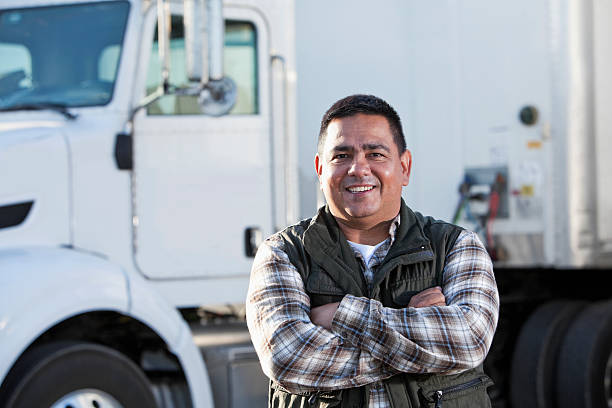
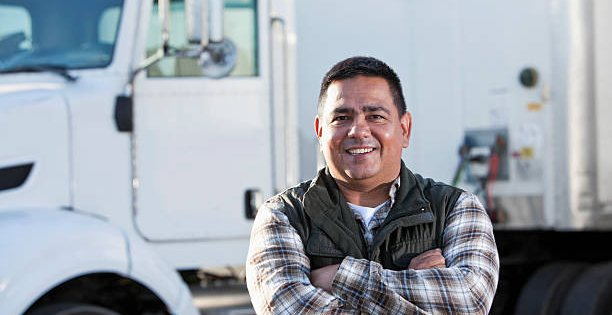
checking

diff --git a/index.html b/index.html
@@ -13,49 +13,51 @@
     integrity="sha384-DNOHZ68U8hZfKXOrtjWvjxusGo9WQnrNx2sqG0tfsghAvtVlRW3tvkXWZh58N9jp" crossorigin="anonymous">
 
 </head>
-<body>    
-    <header class="header sticky-top" id="main-header">
-        <nav class="navbar navbar-expand-lg navbar-light">
-            <figure>
-                <img src="Images/logoJpg.jpg" class="logo" alt="logo" style="max-width: 30%;height: auto;">
-            </figure>
-            <button class="navbar-toggler" type="button" data-toggle="collapse" data-target="#navbarNav" aria-controls="navbarNav" aria-expanded="false" aria-label="Toggle navigation">
-                <span class="navbar-toggler-icon"></span>
-            </button>
-            <div class="collapse navbar-collapse" id="navbarNav">
-                <ul class="navbar-nav">  
-                <li class="nav-item">
-                <a class="nav-link active" href="index.html">Home</a>
-                </li>             
-                <li class="nav-item">
-                    <a class="nav-link" href="AboutUs.html">About</a>
-                </li>
-                <!-- <li class="nav-item">
-                    <a class="nav-link" href="#">Gallery</a>
-                </li>
-                <li class="nav-item">
-                    <a class="nav-link" href="#">Partners</a>
-                    </li> -->
-                <li class="nav-item">
-                    <a class="nav-link" href="ContactUs.html">Contact</a>
-                </li>                   
-                </ul>
-            </div>
-        </nav> <!--/Navigation-->
-    </header>
+    <body>    
+        <header class="header sticky-top" id="main-header">
+            <nav class="navbar navbar-expand-lg navbar-light">
+                <figure>
+                    <a href="index.html"><img src="Images/logoJpg.jpg" class="logo" alt="logo" style="max-width: 30%;height: auto;"></a>
+                </figure>
+                <button class="navbar-toggler" type="button" data-toggle="collapse" data-target="#navbarNav" aria-controls="navbarNav" aria-expanded="false" aria-label="Toggle navigation">
+                    <span class="navbar-toggler-icon"></span>
+                </button>
+                <div class="collapse navbar-collapse" id="navbarNav">
+                    <ul class="navbar-nav">  
+                    <li class="nav-item">
+                    <a class="nav-link active" href="index.html">Home</a>
+                    </li>             
+                    <li class="nav-item">
+                        <a class="nav-link" href="AboutUs.html">About</a>
+                    </li>
+                    <!-- <li class="nav-item">
+                        <a class="nav-link" href="#">Gallery</a>
+                    </li>
+                    <li class="nav-item">
+                        <a class="nav-link" href="#">Partners</a>
+                        </li> -->
+                    <li class="nav-item">
+                        <a class="nav-link" href="ContactUs.html">Contact</a>
+                    </li>                   
+                    </ul>
+                </div>
+            </nav> <!--/Navigation-->
+        </header>
     <!--Bootsrap-->
         <div class="container-fluid">
             <div class="row">
                 <div class="col-sm">
                     <h3 class="mb-4">Owner Operators</h3>
-                    <a href=""><img class="mb-4 img-fluid rounded" src="Images/apply.jpg" alt="owner_operator"></a>
+                    <a href=""><img class="mb-4 img-fluid rounded" src="Images/Truck-driver-standing-in-front-of-big-rigs1.jpg" alt="owner_operator"></a>
                     <p>Lorem Ipsum is simply dummy text of the printing and typesetting industry. 
-                    Lorem Ipsum has been the industry's standard dummy text ever since the 1500s,</p>
+                    Lorem Ipsum has been the industry's standard dummy text ever since the 1500s,Lorem Ipsum is simply dummy text of the printing and typesetting industry. 
+                    Lorem Ipsum has been the industry's standard dummy  Ipsum is simply dummy text of the printing and. 
+                    </p>
                     <button type="button" class="my-button"><a href="#">Learn More</a></button>
                 </div>
                 <div class="col-sm">
                     <h3 class="mb-4">Drivers</h3>
-                    <a href=""><img class="mb-4 img-fluid rounded" src="Images/apply.jpg" alt="truck_driver"></a>
+                    <a href=""><img class="mb-4 img-fluid rounded" src="Images/truck_driver.jpg" alt="truck_driver"></a>
                     <p>Lorem Ipsum is simply dummy text of the printing and typesetting industry. 
                     Lorem Ipsum has been the industry's standard dummy text ever since the 1500s,</p>
                     <button type="button" class="my-button"><a href="#">Learn More</a></button>
@@ -74,13 +76,12 @@
             <!-- Modal -->
             <div class="modal fade" id="exampleModal" tabindex="-1" role="dialog" aria-labelledby="exampleModalLabel" aria-hidden="true">
                 <div class="modal-dialog" role="document">
-                <div class="modal-content">
-                    <div class="modal-header">
-                    <h5 class="modal-title" id="exampleModalLabel">Apply Form</h5>
-                    <button type="button" class="close" data-dismiss="modal" aria-label="Close">
-                        <span aria-hidden="true">&times;</span>
-                    </button>
-                    </div>
+                    <div class="modal-content">
+                        <div class="modal-header">
+                            <h5 class="modal-title" id="exampleModalLabel">Apply Form</h5>
+                            <button type="button" class="close" data-dismiss="modal" aria-label="Close">
+                            <span aria-hidden="true">&times;</span></button>
+                        </div>
                     <!--Apply Form-->
                     <div class="modal-body">                     
                             <div class="form-group">
@@ -107,12 +108,12 @@
                     <div class="modal-footer">
                     <button type="button" id="submit" class="btn btn-primary" data-dismiss="modal">SUBMIT</button>
                     </div>
+                <!-- </div>
                 </div>
+            </div> -->
+                    </div>
                 </div>
             </div>
-            </div>
-        </div>
-        </div>
     <footer>     
         <div class="follow_us">
             <a href="#"><i class="fab fa-instagram"></i></a>
@@ -125,7 +126,6 @@
         </div>       
     </footer> 
     <!--Bootstrap-->
-    
     <script src="JavaScript/jquery-3.3.1"></script>
     <script src="https://code.jquery.com/jquery-3.2.1.slim.min.js" integrity="sha384-KJ3o2DKtIkvYIK3UENzmM7KCkRr/rE9/Qpg6aAZGJwFDMVNA/GpGFF93hXpG5KkN" crossorigin="anonymous"></script>
     <script src="https://cdnjs.cloudflare.com/ajax/libs/popper.js/1.11.0/umd/popper.min.js" integrity="sha384-b/U6ypiBEHpOf/4+1nzFpr53nxSS+GLCkfwBdFNTxtclqqenISfwAzpKaMNFNmj4" crossorigin="anonymous"></script>

diff --git a/ContactUs.html b/ContactUs.html
@@ -17,7 +17,7 @@
         <header class="header" id="main-header">
             <nav class="navbar navbar-expand-lg navbar-light">
                 <figure>
-                    <img src="Images/logoJpg.jpg" class="logo" alt="logo" style="max-width: 30%;height: auto;">
+                    <a href="index.html"><img src="Images/logoJpg.jpg" class="logo" alt="logo" style="max-width: 30%;height: auto;"></a>
                 </figure>
                 <button class="navbar-toggler" type="button" data-toggle="collapse" data-target="#navbarNav" aria-controls="navbarNav" aria-expanded="false" aria-label="Toggle navigation">
                     <span class="navbar-toggler-icon"></span>
@@ -44,23 +44,18 @@
             </nav> <!--/Navigation-->
         </header>
         <div class="col-md-4 col-lg-3 col-xl-3 mx-auto mb-md-0 mb-4">
-
           <!-- Links -->
           <h6 class="text-uppercase font-weight-bold">Contact</h6>
           <hr class="deep-purple accent-2 mb-4 mt-0 d-inline-block mx-auto" style="width: 60px;">
           <p>
-            <i class="fa fa-home mr-3"></i> New York, NY 10012, US</p>
+            <i class="fa fa-home mr-3"></i> Louisville, KY</p>
           <p>
-            <i class="fa fa-envelope mr-3"></i> info@example.com</p>
+            <i class="fa fa-envelope mr-3"></i> fida@fida.com</p>
           <p>
-            <i class="fa fa-phone mr-3"></i> + 01 234 567 88</p>
+            <i class="fa fa-phone mr-3"></i> + 01 502 123 4567</p>
           <p>
-            <i class="fa fa-print mr-3"></i> + 01 234 567 89</p>
-
+            <i class="fa fa-print mr-3"></i> + 01 502 123 4567</p>
         </div>
-
-
-
         <div class="container-contact">
             <form id="contact-form" action="action_page.php">
               <div class="row-contact">

diff --git a/CSS/style.css b/CSS/style.css
@@ -53,10 +53,9 @@ a:hover {
   color: grey;
 }
 
-.active, nav a:hover {  
-  color: #dea227;
+.active, .nav-link a:hover {
   background-color: #f1f1f1;
-  border-radius: 10px;
+  border-radius: 30px;
   padding: 5px;
 }
 
@@ -69,7 +68,7 @@ a:hover {
 }
 
 .container-pt-4 {
-  background-color: #f2f2f2;
+  background-color: #f2f2f2; 
 }
 
 /* Styling a footer */
@@ -197,15 +196,15 @@ label {
 }
    /* Styling About Us page */
 
-   .about-div {     
-     background-color: #f2f2f2;
-   }
+.about-div {     
+  background-color: #f2f2f2;
+}
 
-   .about-picture {
-     float: left;
-     padding: 10px;
-     border-radius: 10px;
-   }
+.about-picture {
+  float: left;
+  padding: 10px;
+  border-radius: 10px;
+}
 
 .address-column {
   float: right;
@@ -223,13 +222,6 @@ h2 {
   text-align: justify;
 }
 
-
-/* .chief-column {
-  float: left;
-  width: 50%;
-  margin-bottom: 16px;
-  padding: 0 8px;
-} */
 
 .team-column {
   padding: 10px;
@@ -275,20 +267,6 @@ h2 {
 .button:hover {
   background-color: #555;
 }
-
-
-
-
-
-
-
-
-
-
-
-
-
-
 
 /* Clear floats after the columns */
 .about-row:after {
@@ -353,8 +331,8 @@ h2 {
   
   /* Number text (1/3 etc) */
   .numbertext {
-    color: #f2f2f2;
-    font-size: 12px;
+    color: black;
+    font-size: 15px;
     padding: 8px 12px;
     position: absolute;
     top: 0;

diff --git a/AboutUs.html b/AboutUs.html
@@ -17,7 +17,7 @@ integrity="sha384-DNOHZ68U8hZfKXOrtjWvjxusGo9WQnrNx2sqG0tfsghAvtVlRW3tvkXWZh58N9
     <header class="header sticky-top" id="main-header">
         <nav class="navbar navbar-expand-lg navbar-light">
             <figure>
-                <img src="Images/logoJpg.jpg" class="logo" alt="logo" style="max-width: 30%;height: auto;">
+                <a href="index.html"><img src="Images/logoJpg.jpg" class="logo" alt="logo" style="max-width: 30%;height: auto;"></a>
             </figure>
             <button class="navbar-toggler" type="button" data-toggle="collapse" data-target="#navbarNav" aria-controls="navbarNav" aria-expanded="false" aria-label="Toggle navigation">
                 <span class="navbar-toggler-icon"></span>

diff --git a/JavaScript/app.js b/JavaScript/app.js
@@ -2,7 +2,7 @@ $('#contact-button').click(function() {
     //const preview = $('#subject').val();
     
     //$('#subjectPreview').text(preview);
-    alert("Thank you for your question.");
+    alert("Sorry. This function is not available yet.");
   
 })
 

diff --git a/README.md b/README.md
@@ -1,2 +1,17 @@
 Front-End Web Development
 
+Front-End Web Development 
+This is my first project. I am creating a website for a family owned bussiness. It is a trucking company that
+has more than 15 trucks and refrigerators. This company also has a dispatcher service for truck owners.
+It is also has a link that lets people apply for jobs. My website is responsive using Bootstrap.
+
+To run this project, download the project as a ZIP file from Github, extract it into a working folder on your
+machine, then open a browser on the index.html file.
+
+The "Main" page of the site has a navigation links to where you want  to explore. 
+
+The "About Us" page is mostly about the company history, the team, and our founders. This page has an image carousel that uses
+JavaScript.
+
+The "Contact" page has an address, and also it has a form where you can ask us a question. When the user
+clicks on the "Submit" button, a jQuery function will trigger an alert message.
